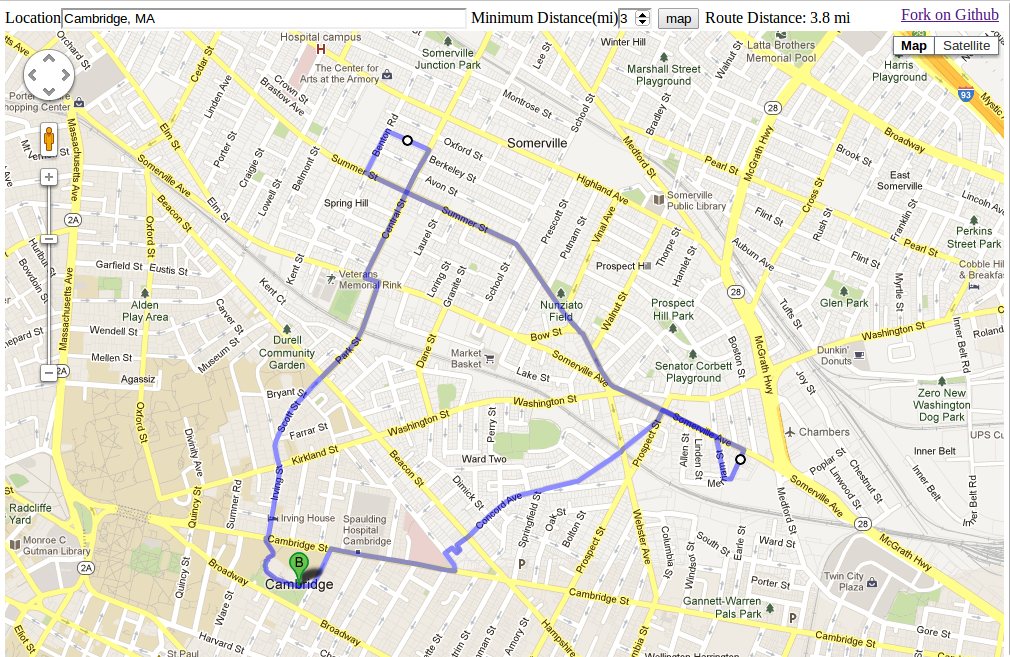
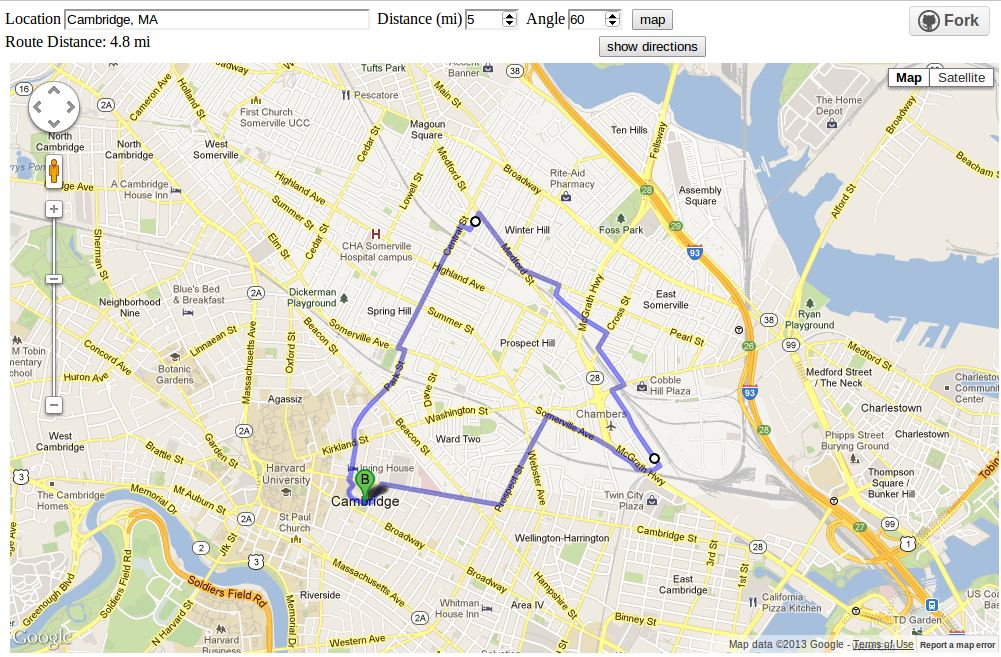
directions list, dynamic distance

diff --git a/run_map.html b/run_map.html
@@ -5,7 +5,9 @@
 <style type="text/css"> 
   html { height: 100% }
   body { height: 100%; margin: 0px; padding: 5px }
-  #googleMap { height: 100% }
+  #googleMap { height: 90%; margin: 5px }
+  input { margin: 3px }
+  #phi:hover {
 </style> 
 
 
@@ -16,17 +18,19 @@
 var map;
 var directionsDisplay;
 var directionsService = new google.maps.DirectionsService();
+
   
 
 function initialize() {
   directionsDisplay = new google.maps.DirectionsRenderer({draggable:true});
   var mapProp = {
-    center: new google.maps.LatLng(42.3584308, -71.0597732),
+    center: new google.maps.LatLng(42.3736158, -71.109733),
     zoom: 12,
     mapTypeId: google.maps.MapTypeId.ROADMAP
     };
   map = new google.maps.Map(document.getElementById("googleMap"), mapProp);
   directionsDisplay.setMap(map);
+  google.maps.event.addListener(directionsDisplay, 'directions_changed', calcDist);
 }
 
 function geocodeStart() {
@@ -40,13 +44,11 @@ function handleResults(results, status) {
   if (status == google.maps.GeocoderStatus.OK) {
     var LatLng=results[0].geometry.location;
     map.setCenter(LatLng);
-    // var marker=new google.maps.Marker({ map:map, position:LatLng });
     findPts(LatLng);
     }
   else {
     alert("Geocoding was unsuccessful because: " + status);
     }
-
 }
 
 function findPts(LatLng) {
@@ -54,19 +56,17 @@ function findPts(LatLng) {
   var Long1 = LatLng.lng()*Math.PI/180;
   var theta = 2*Math.random()*Math.PI;
   var dist = document.getElementById("distance").value;
-  var phi = 1/3*Math.PI; //angle between leg1 and leg3
+  var phi = Math.PI/180*document.getElementById("phi").value; //angle between leg1 and leg3
   var sign = 2*Math.round(Math.random())-1; //shift right or left
   var scale = 0.8; //straitline_distance/actual_distance
   var legDist = scale*dist/(2+2*Math.sin(phi/2));
   var r = 4000*Math.cos(Lat1); //horizontal radius at given latitude
-  var Lat2 = legDist*Math.cos(theta)/4000+Lat1; // 1/3 for first third of route
+  var Lat2 = legDist*Math.cos(theta)/4000+Lat1;
   var Long2 = Long1+legDist*Math.sin(theta)/r;
-  var Lat3 = legDist*Math.cos(theta+sign*phi)/4000+Lat1; // 1/3 for first third of route
+  var Lat3 = legDist*Math.cos(theta+sign*phi)/4000+Lat1;
   var Long3 = Long1+legDist*Math.sin(theta+sign*phi)/r;
   var LatLng2 = new google.maps.LatLng(Lat2*180/Math.PI, Long2*180/Math.PI);
   var LatLng3 = new google.maps.LatLng(Lat3*180/Math.PI, Long3*180/Math.PI);
-  // var marker= new google.maps.Marker({ map:map, position:LatLng2 });
-  // var marker= new google.maps.Marker({ map:map, position:LatLng3 });
   plotRoute(LatLng, LatLng2, LatLng3);
 }
 
@@ -84,35 +84,61 @@ function plotRoute(LatLng1, LatLng2, LatLng3) {
         stopover: false
       }],
     travelMode: google.maps.TravelMode.WALKING,
-    avoidHighways: true
+    avoidHighways: true,
+    optimizeWaypoints: true
     };
   directionsService.route(request, function(result, status) {
     if (status == google.maps.DirectionsStatus.OK) {
       directionsDisplay.setDirections(result);
-      var routeDistance = result.routes[0].legs[0].distance.text;
-      document.getElementById("routeDistance").innerHTML=routeDistance
     }
   });
 }
   
-  
+function calcDist() {
+  var routeDist = directionsDisplay.directions.routes[0].legs[0].distance.text;
+  document.getElementById("routeDistance").innerHTML = routeDist;
+}
+
+function showDirections() {
+  var openWindow = window.open("", "", "width=400, height=600");
+  var steps = directionsDisplay.directions.routes[0].legs[0].steps
+  var uniqueSteps = []
+  for (var i=0; i<steps.length-1; i++) {
+    if (steps[i] != uniqueSteps[uniqueSteps.length] && steps[i].instructions.split(" ").length>2) {
+      uniqueSteps.push(steps[i].instructions+": "+steps[i].distance.text);
+    }
+  }
+  openWindow.document.write(uniqueSteps.join("<br>"));
+  var routeDist = document.getElementById("routeDistance").innerHTML;
+  openWindow.document.write("<br><br>Total: "+routeDist);
+  openWindow.focus();
+}
 
 google.maps.event.addDomListener(window, 'load', initialize);
+
+
 </script>
 </head>
 
 <body>
+<div id="header" style="height:8%">
 
-<a style="position:absolute; right: 10px" href="https://github.com/ben-eysenbach/run_map" target="_blank">Fork on Github</a>
+<iframe src="http://ghbtns.com/github-btn.html?user=ben-eysenbach&repo=run_map&type=fork&size=large"
+  allowtransparency="true" frameborder="0" scrolling="0" width="90" height="40" style="position:absolute; right: 10px"></iframe>
 
 <div>
-Location<input id="location" style="width:400px" type="textbox" value="Cambridge, MA">
-Distance(mi)<input style="width:30px"id="distance" type="number" min=0 value=5>
-<input type="button" value="map" onclick="geocodeStart()">
-Route Distance: <span id="routeDistance"></span></div>
+Location<input id="location" style="width:300px" type="textbox" value="Cambridge, MA">
+Distance (mi)<input id="distance" style="width:50px" type="number" min=0 value=5>
+Angle<input id="phi" style="width:50px" type="number" min=0 max=180 value=60>
+<input type="button" value="map" onclick="geocodeStart()"></div>
+<div>
+Route Distance: <span id="routeDistance"></span>
+<input style="position:absolute; right:300px" type="button" value="show directions" onclick="showDirections()">
+</div>
+</div>
 
-<div id="googleMap"></div> <!-- style="width:1000px; height:500px;"></div>-->
 
+<div id="googleMap"></div>
 
 </body>
 </html>
